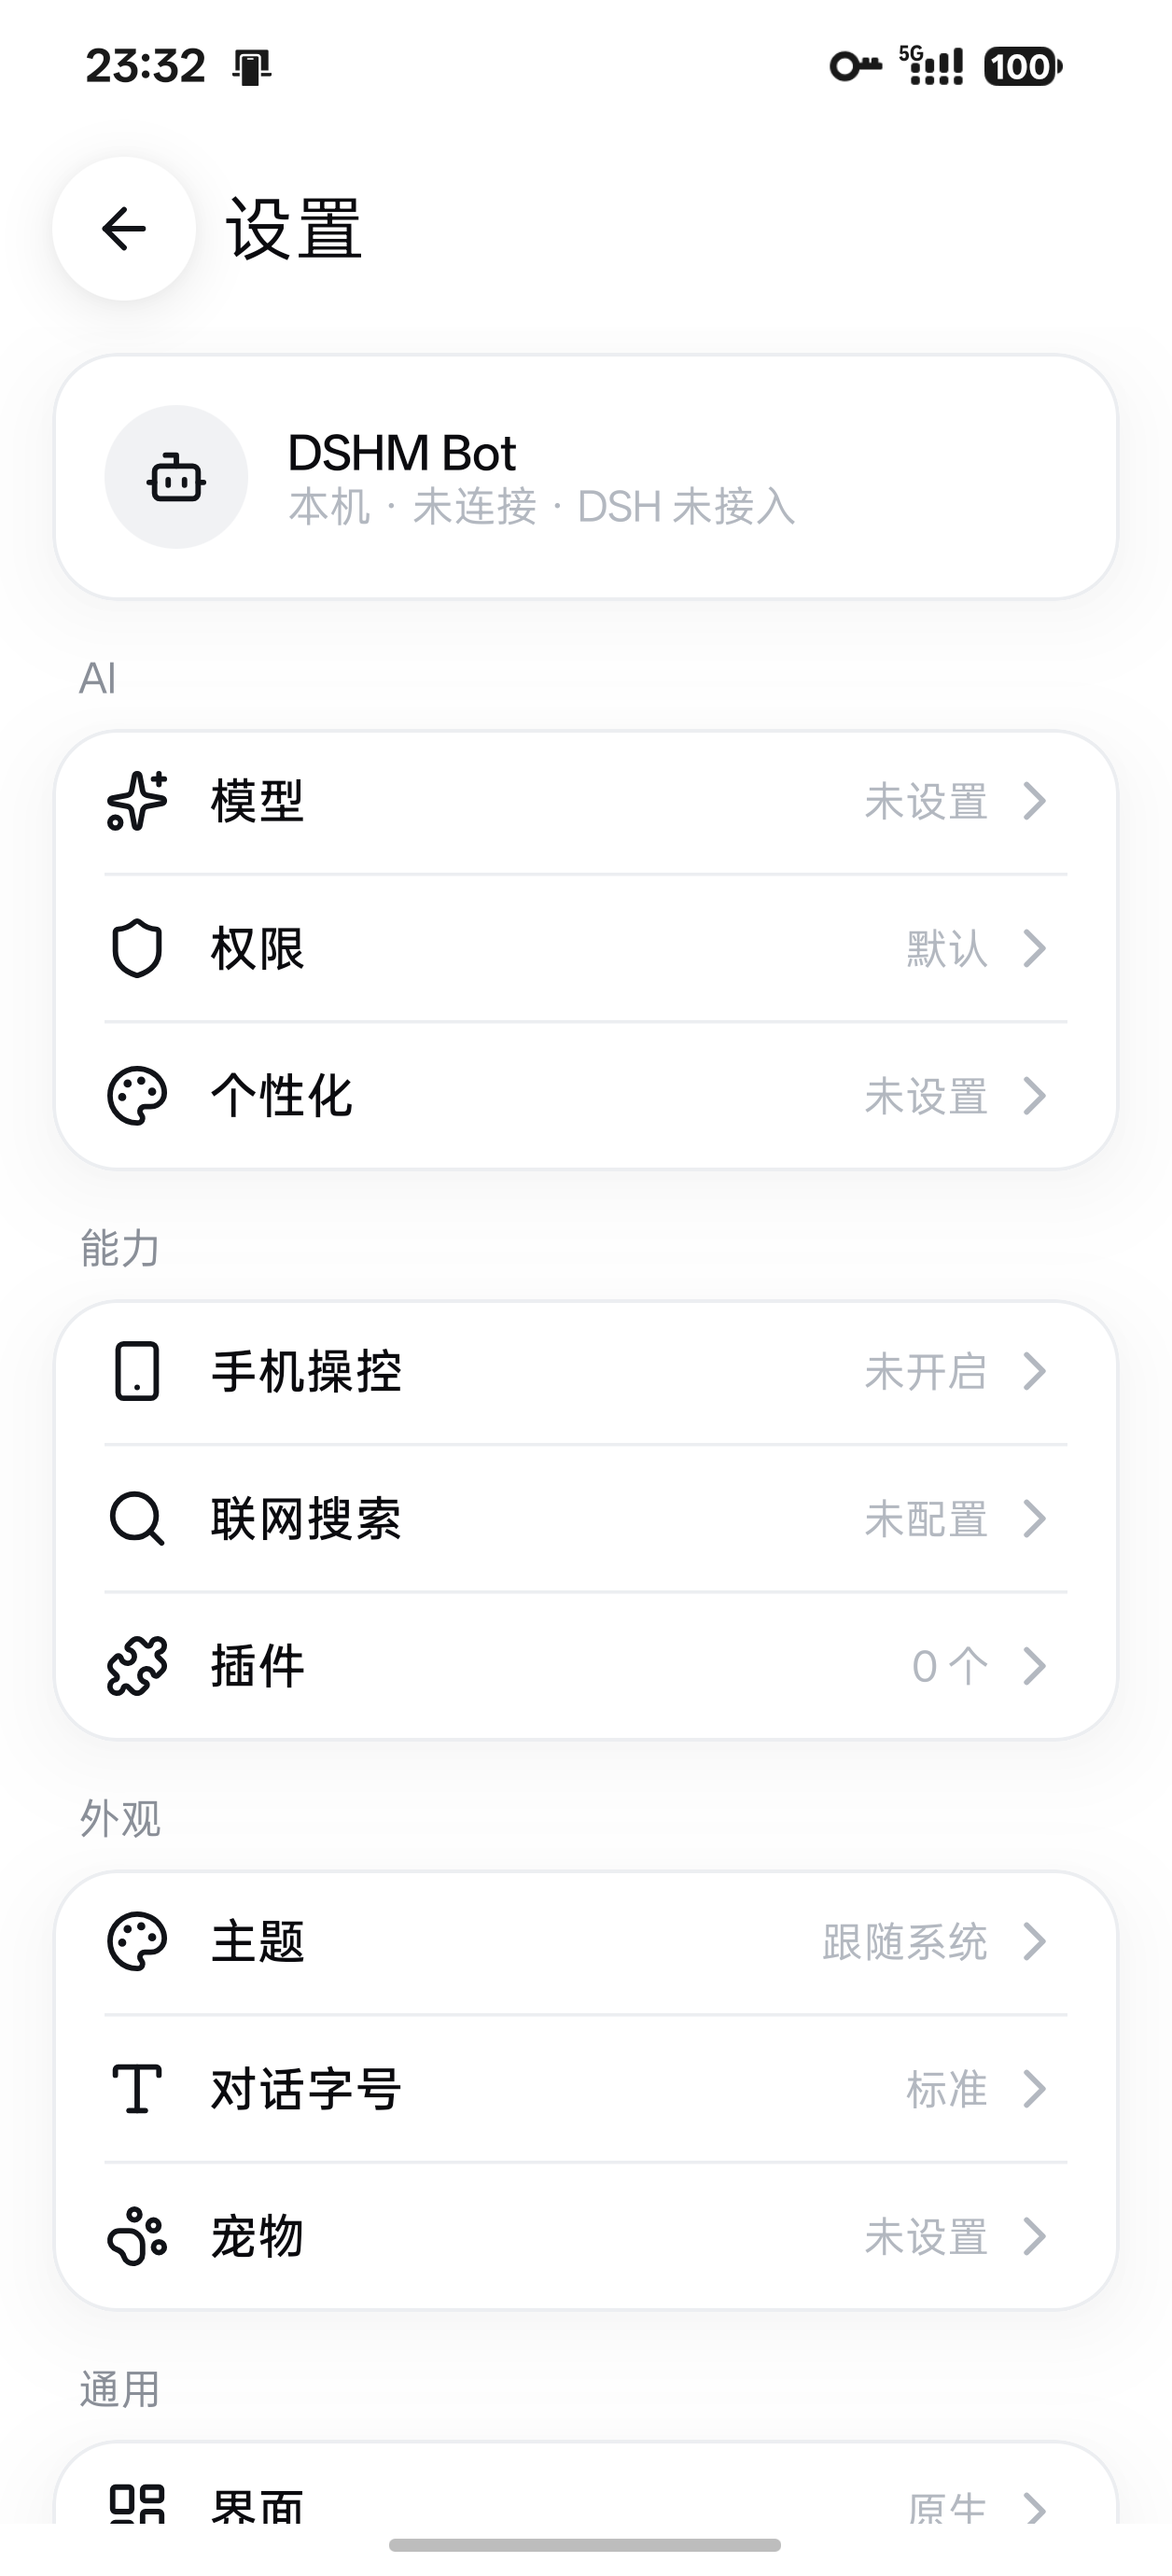
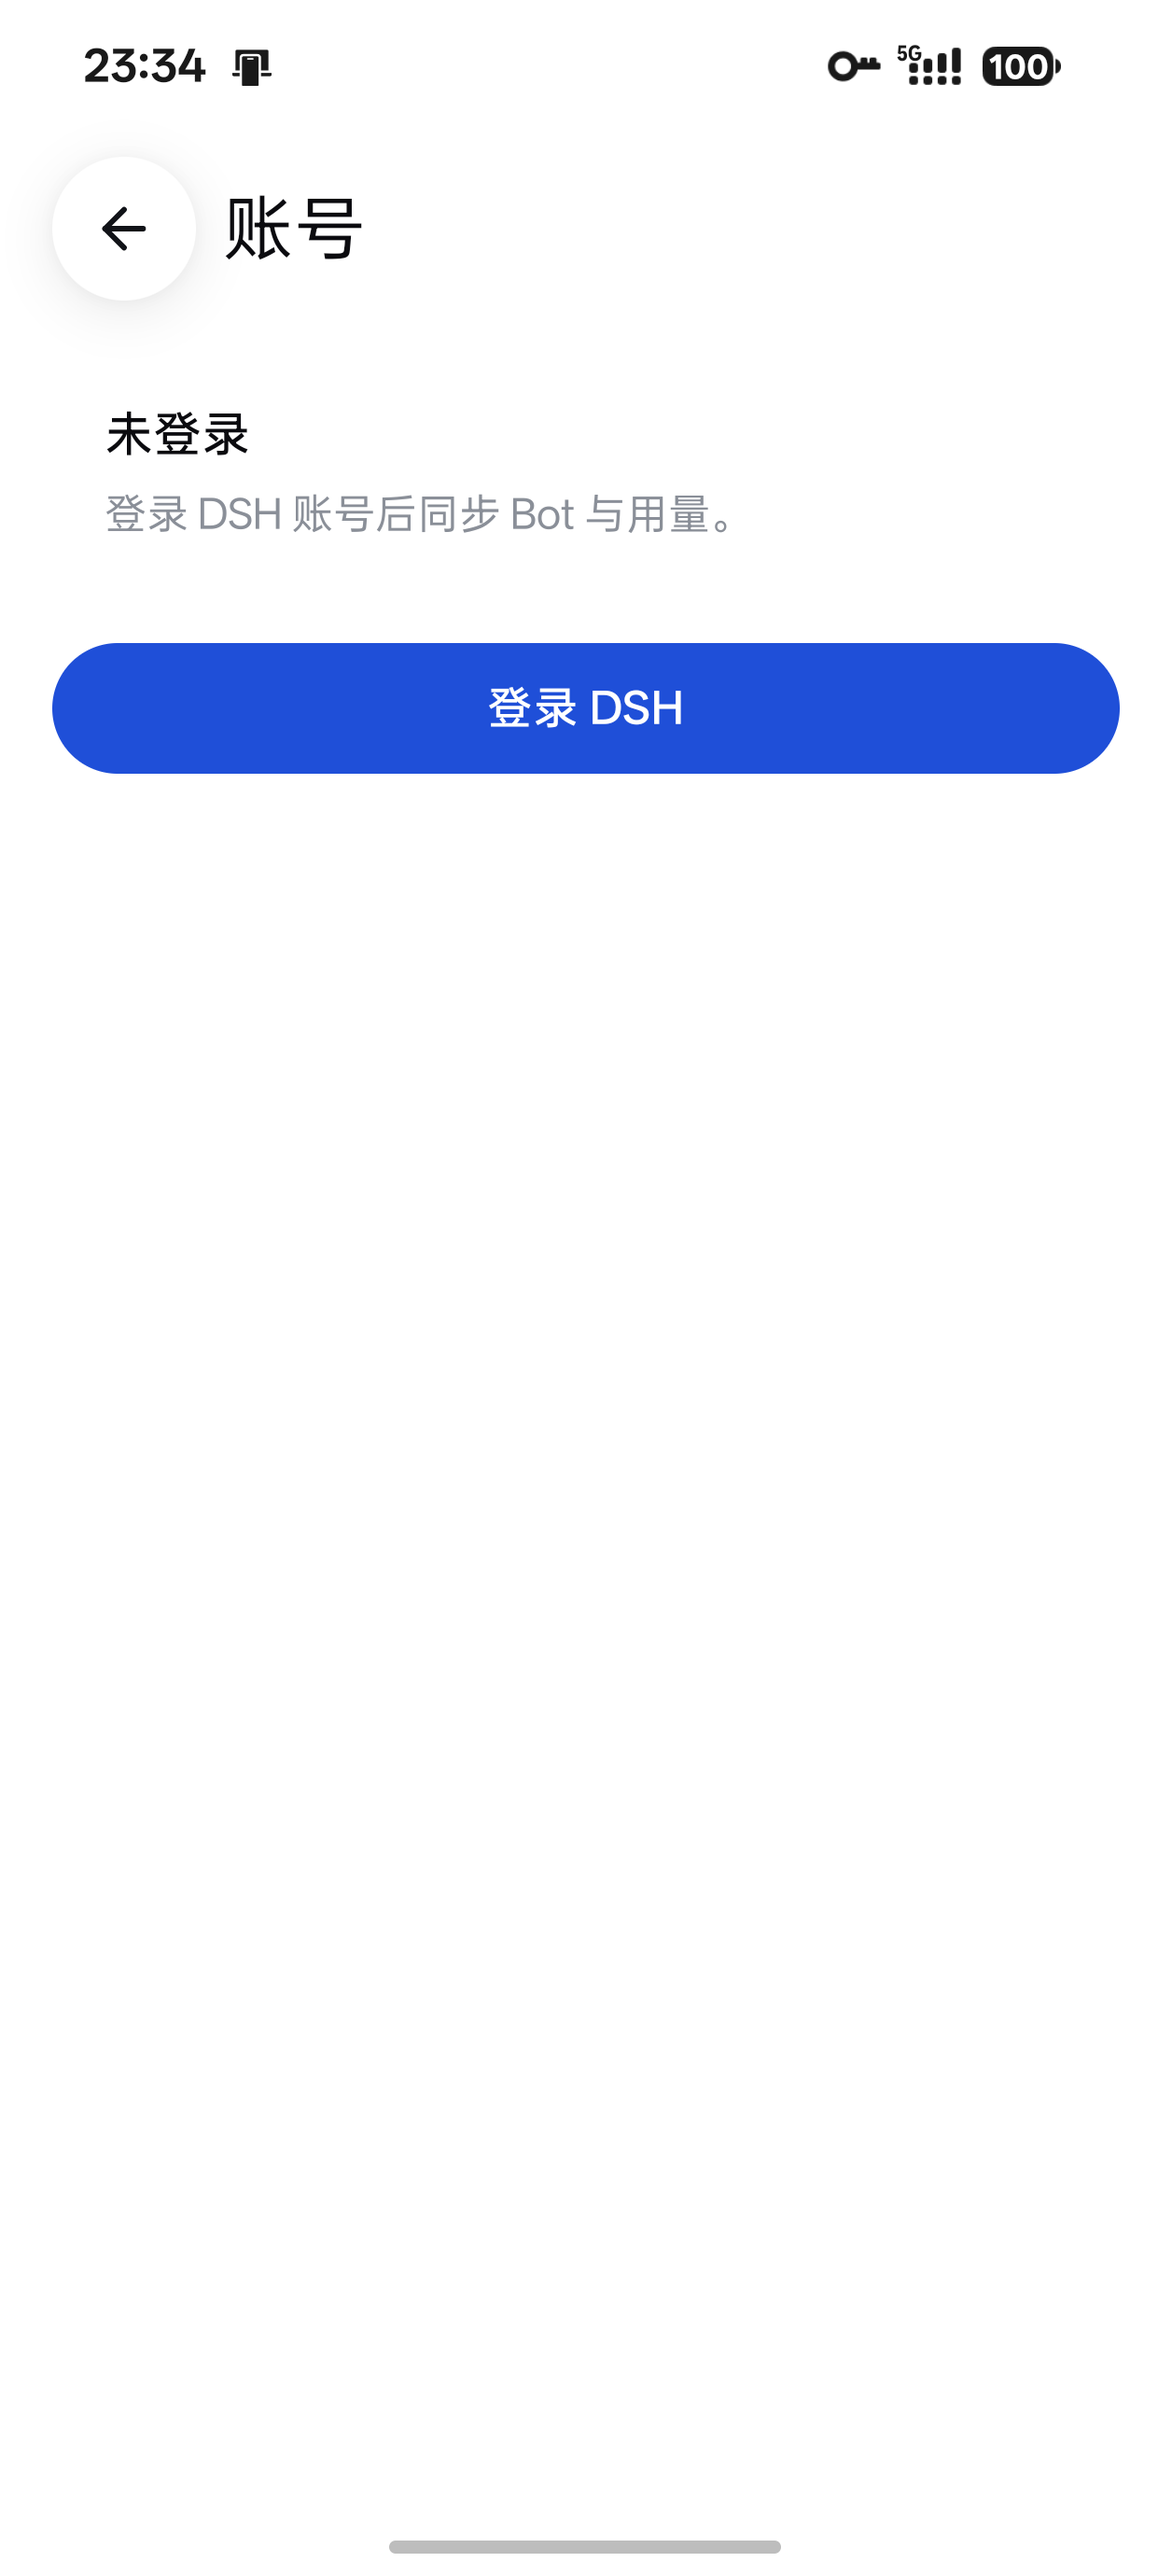
feat(account): DshClient 增加 POST /api/account/<method>（对齐 dsh-Go account_api.dart）

diff --git a/app/src/main/java/com/dshm/bot/data/remote/DshClient.kt b/app/src/main/java/com/dshm/bot/data/remote/DshClient.kt
@@ -82,4 +82,27 @@ class DshClient(private val endpoint: RuntimeEndpoint) {
             connection.disconnect()
         }
     }.flowOn(Dispatchers.IO)
-}
+
+    /** 账号服务：POST /api/account/<method>，与 dsh-Go account_api.dart 对齐。 */
+    suspend fun account(method: String, body: JSONObject = JSONObject()): JSONObject = withContext(Dispatchers.IO) {
+        val auth = cookie ?: login()
+        val connection = (URL(endpoint.baseUrl + "api/account/" + method).openConnection() as HttpURLConnection).apply {
+            requestMethod = "POST"
+            doOutput = true
+            connectTimeout = 15_000
+            readTimeout = 30_000
+            setRequestProperty("Content-Type", "application/json")
+            setRequestProperty("Cookie", auth)
+        }
+        try {
+            connection.outputStream.use { it.write(body.toString().toByteArray()) }
+            val code = connection.responseCode
+            val stream = if (code in 200..299) connection.inputStream else connection.errorStream
+            val text = stream?.bufferedReader()?.use(BufferedReader::readText) ?: ""
+            require(code in 200..299) { "DSH 账号请求失败：HTTP $code $text" }
+            JSONObject(text)
+        } finally {
+            connection.disconnect()
+        }
+    }}
+
